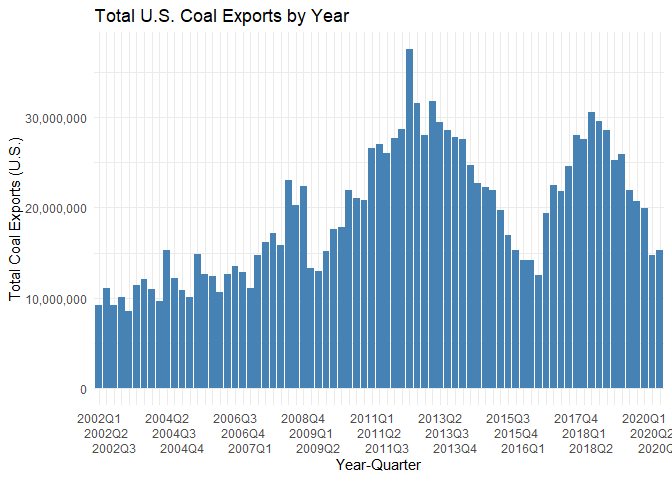
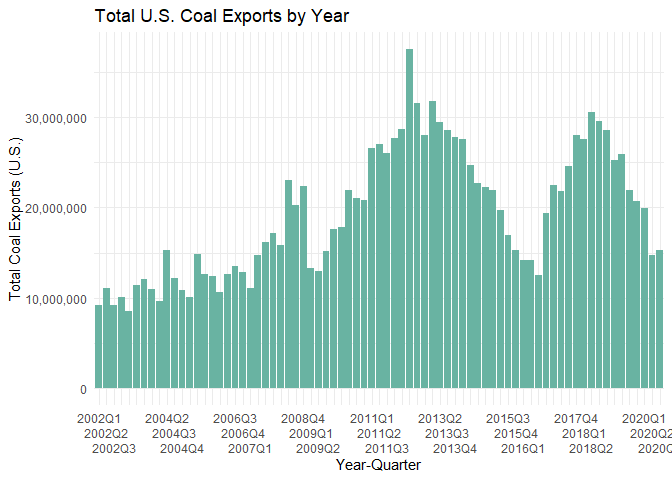
small edits for two of the figures

Changed region(s): [[0.125, 0.0938, 1.0, 0.8125]]

diff --git a/R/coal.html b/R/coal.html
@@ -462,13 +462,13 @@ div.tocify {
 <span id="cb14-7"><a href="#cb14-7" aria-hidden="true" tabindex="-1"></a><span class="co">#coal_clean2$year_quarter = as.yearqtr(coal_clean$date,format=&quot;%Yq%q&quot;)</span></span>
 <span id="cb14-8"><a href="#cb14-8" aria-hidden="true" tabindex="-1"></a></span>
 <span id="cb14-9"><a href="#cb14-9" aria-hidden="true" tabindex="-1"></a>plot2<span class="ot">&lt;-</span><span class="fu">ggplot</span>(<span class="at">data=</span>coal_clean2, <span class="fu">aes</span>(<span class="at">x=</span>date, <span class="at">y=</span>total)) <span class="sc">+</span></span>
-<span id="cb14-10"><a href="#cb14-10" aria-hidden="true" tabindex="-1"></a>  <span class="fu">geom_bar</span>(<span class="at">stat=</span><span class="st">&quot;identity&quot;</span>, <span class="at">fill=</span><span class="st">&quot;steelblue&quot;</span>) <span class="sc">+</span></span>
+<span id="cb14-10"><a href="#cb14-10" aria-hidden="true" tabindex="-1"></a>  <span class="fu">geom_bar</span>(<span class="at">stat=</span><span class="st">&quot;identity&quot;</span>, <span class="at">fill=</span><span class="st">&quot;#69b3a2&quot;</span>) <span class="sc">+</span></span>
 <span id="cb14-11"><a href="#cb14-11" aria-hidden="true" tabindex="-1"></a>  <span class="fu">theme_minimal</span>() <span class="sc">+</span> <span class="fu">scale_y_continuous</span>(<span class="at">labels =</span> scales<span class="sc">::</span>comma) <span class="sc">+</span> </span>
 <span id="cb14-12"><a href="#cb14-12" aria-hidden="true" tabindex="-1"></a>  <span class="fu">labs</span>(<span class="at">title =</span> <span class="st">&quot;Total U.S. Coal Exports by Year&quot;</span>, <span class="at">x =</span> <span class="st">&quot;Year-Quarter&quot;</span>, <span class="at">y =</span> <span class="st">&quot;Total Coal Exports (U.S.)&quot;</span>) <span class="sc">+</span></span>
 <span id="cb14-13"><a href="#cb14-13" aria-hidden="true" tabindex="-1"></a>  <span class="fu">scale_x_discrete</span>(<span class="at">guide =</span> <span class="fu">guide_axis</span>(<span class="at">n.dodge=</span><span class="dv">3</span>, <span class="at">check.overlap =</span> <span class="cn">TRUE</span>))</span>
 <span id="cb14-14"><a href="#cb14-14" aria-hidden="true" tabindex="-1"></a>plot2</span></code></pre></div>
 <pre><code>## Warning: Removed 1139 rows containing missing values (position_stack).</code></pre>
[2 lines of base64/hex data omitted]
 <p>Now do the same as the above, expect aggregated quarter of year (2001Q1, 2002Q2, etc.). Do you notice any seasonality that was masked from the yearly averages?</p>
 <p><strong>I noticed that the first quarter typically had the lowest total export of the four quarters in most of the years, and this especially happened to be true early on but doesn’t hold as much for the more recent years. There were significant decreases in total exports due to COVID which can really be seen starting at the beginning of 2020, and the second quarter is where we see a large drop in exports which was a four year low.</strong></p>
 <p><em>Hint: ggplot2 is going to want you to convert your quarterly data into actual date format before it plots nicely. (i.e. Don’t leave it as a string.)</em></p>
@@ -647,12 +647,12 @@ The top consuming coal countries are the following… 1. India<br />
 <div class="sourceCode" id="cb29"><pre class="sourceCode r"><code class="sourceCode r"><span id="cb29-1"><a href="#cb29-1" aria-hidden="true" tabindex="-1"></a><span class="co">#class(year)</span></span>
 <span id="cb29-2"><a href="#cb29-2" aria-hidden="true" tabindex="-1"></a>  </span>
 <span id="cb29-3"><a href="#cb29-3" aria-hidden="true" tabindex="-1"></a>plot3<span class="ot">&lt;-</span><span class="fu">ggplot</span>(<span class="at">data=</span>coal_clean, <span class="fu">aes</span>(<span class="at">x=</span>year, <span class="at">y=</span>total)) <span class="sc">+</span></span>
-<span id="cb29-4"><a href="#cb29-4" aria-hidden="true" tabindex="-1"></a>  <span class="fu">geom_bar</span>(<span class="at">stat=</span><span class="st">&quot;identity&quot;</span>, <span class="at">fill=</span><span class="st">&quot;steelblue&quot;</span>)<span class="sc">+</span></span>
+<span id="cb29-4"><a href="#cb29-4" aria-hidden="true" tabindex="-1"></a>  <span class="fu">geom_bar</span>(<span class="at">stat=</span><span class="st">&quot;identity&quot;</span>, <span class="at">fill=</span><span class="st">&quot;#009E73&quot;</span>)<span class="sc">+</span></span>
 <span id="cb29-5"><a href="#cb29-5" aria-hidden="true" tabindex="-1"></a>  <span class="fu">theme_minimal</span>() <span class="sc">+</span> <span class="fu">scale_y_continuous</span>(<span class="at">labels =</span> scales<span class="sc">::</span>comma) <span class="sc">+</span> <span class="fu">labs</span>(<span class="at">title =</span> <span class="st">&quot;Total U.S. Coal Exports And The 2016 presidential Elections&quot;</span>, <span class="at">x =</span> <span class="st">&quot;Year&quot;</span>, <span class="at">y =</span> <span class="st">&quot;Total Coal Exports (U.S.)&quot;</span>) <span class="sc">+</span>  <span class="fu">xlim</span>(<span class="dv">2013</span>, <span class="dv">2020</span>)</span>
 <span id="cb29-6"><a href="#cb29-6" aria-hidden="true" tabindex="-1"></a>plot3</span></code></pre></div>
 <pre><code>## Warning: Removed 6468 rows containing missing values (position_stack).</code></pre>
 <pre><code>## Warning: Removed 979 rows containing missing values (geom_bar).</code></pre>
[2 lines of base64/hex data omitted]
 </div>
 
 

diff --git a/R/coal.md b/R/coal.md
@@ -205,7 +205,7 @@ coal_clean2 %>%
 #coal_clean2$year_quarter = as.yearqtr(coal_clean$date,format="%Yq%q")
 
 plot2<-ggplot(data=coal_clean2, aes(x=date, y=total)) +
-  geom_bar(stat="identity", fill="steelblue") +
+  geom_bar(stat="identity", fill="#69b3a2") +
   theme_minimal() + scale_y_continuous(labels = scales::comma) + 
   labs(title = "Total U.S. Coal Exports by Year", x = "Year-Quarter", y = "Total Coal Exports (U.S.)") +
   scale_x_discrete(guide = guide_axis(n.dodge=3, check.overlap = TRUE))
@@ -222,6 +222,7 @@ plot2
 Now do the same as the above, expect aggregated quarter of year (2001Q1, 2002Q2, etc.). Do you notice any seasonality that was masked from the yearly averages?
 
 **I noticed that the first quarter typically had the lowest total export of the four quarters in most of the years, and this especially happened to be true early on but doesn't hold as much for the more recent years. There were significant decreases in total exports due to COVID which can really be seen starting at the beginning of 2020, and the second quarter is where we see a large drop in exports which was a four year low.**
+
 
 *Hint: ggplot2 is going to want you to convert your quarterly data into actual date format before it plots nicely. (i.e. Don't leave it as a string.)*
 
@@ -464,7 +465,7 @@ coal_clean %>%
 #class(year)
   
 plot3<-ggplot(data=coal_clean, aes(x=year, y=total)) +
-  geom_bar(stat="identity", fill="steelblue")+
+  geom_bar(stat="identity", fill="#009E73")+
   theme_minimal() + scale_y_continuous(labels = scales::comma) + labs(title = "Total U.S. Coal Exports And The 2016 presidential Elections", x = "Year", y = "Total Coal Exports (U.S.)") +  xlim(2013, 2020)
 plot3
 ```
